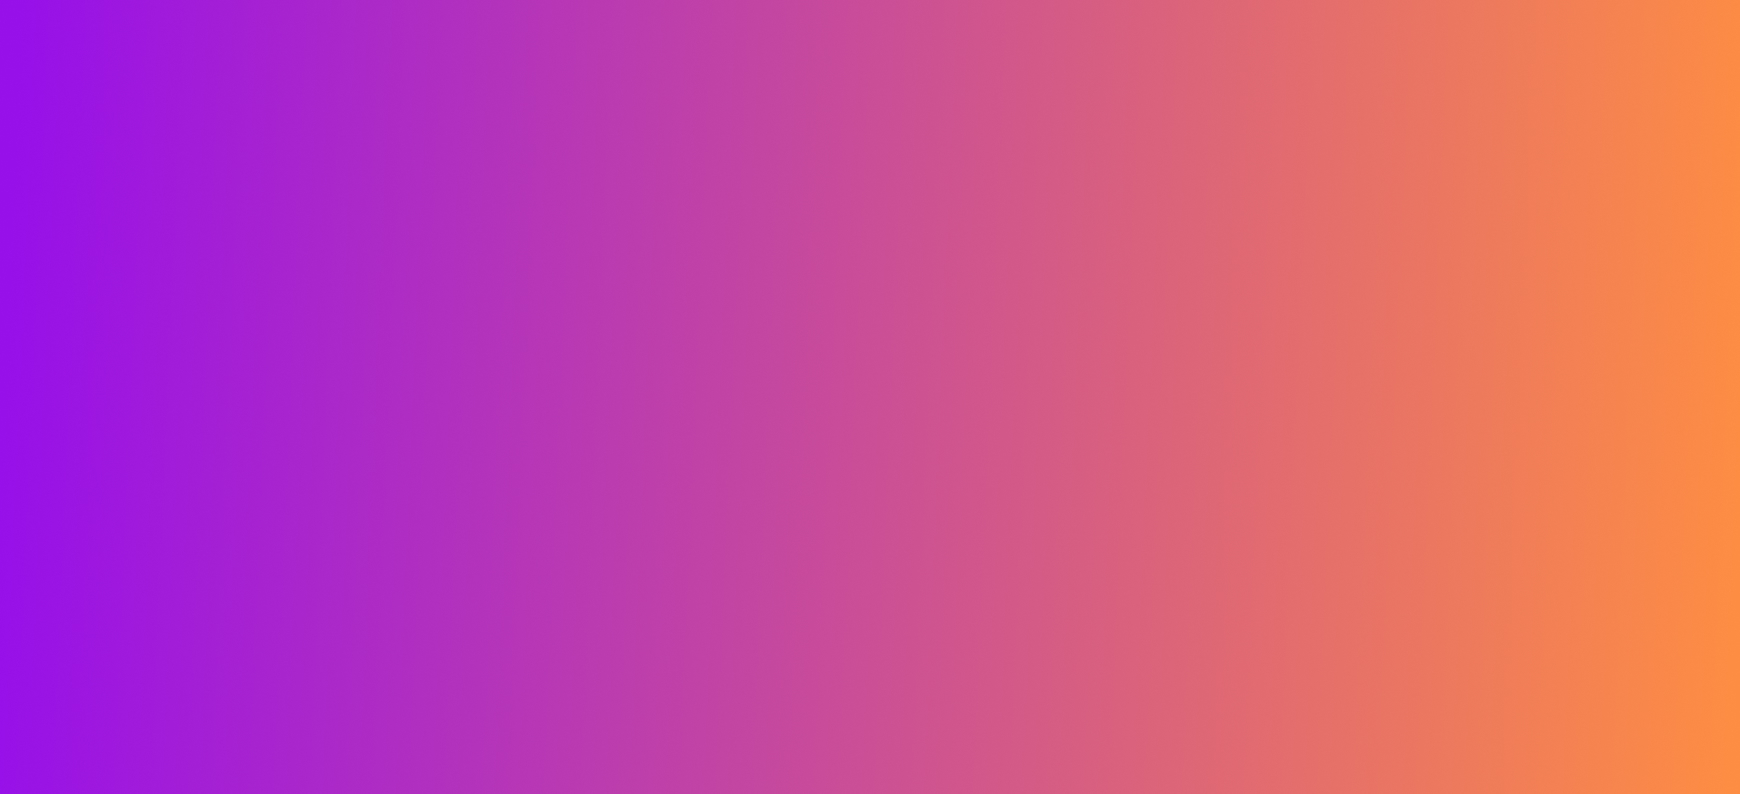
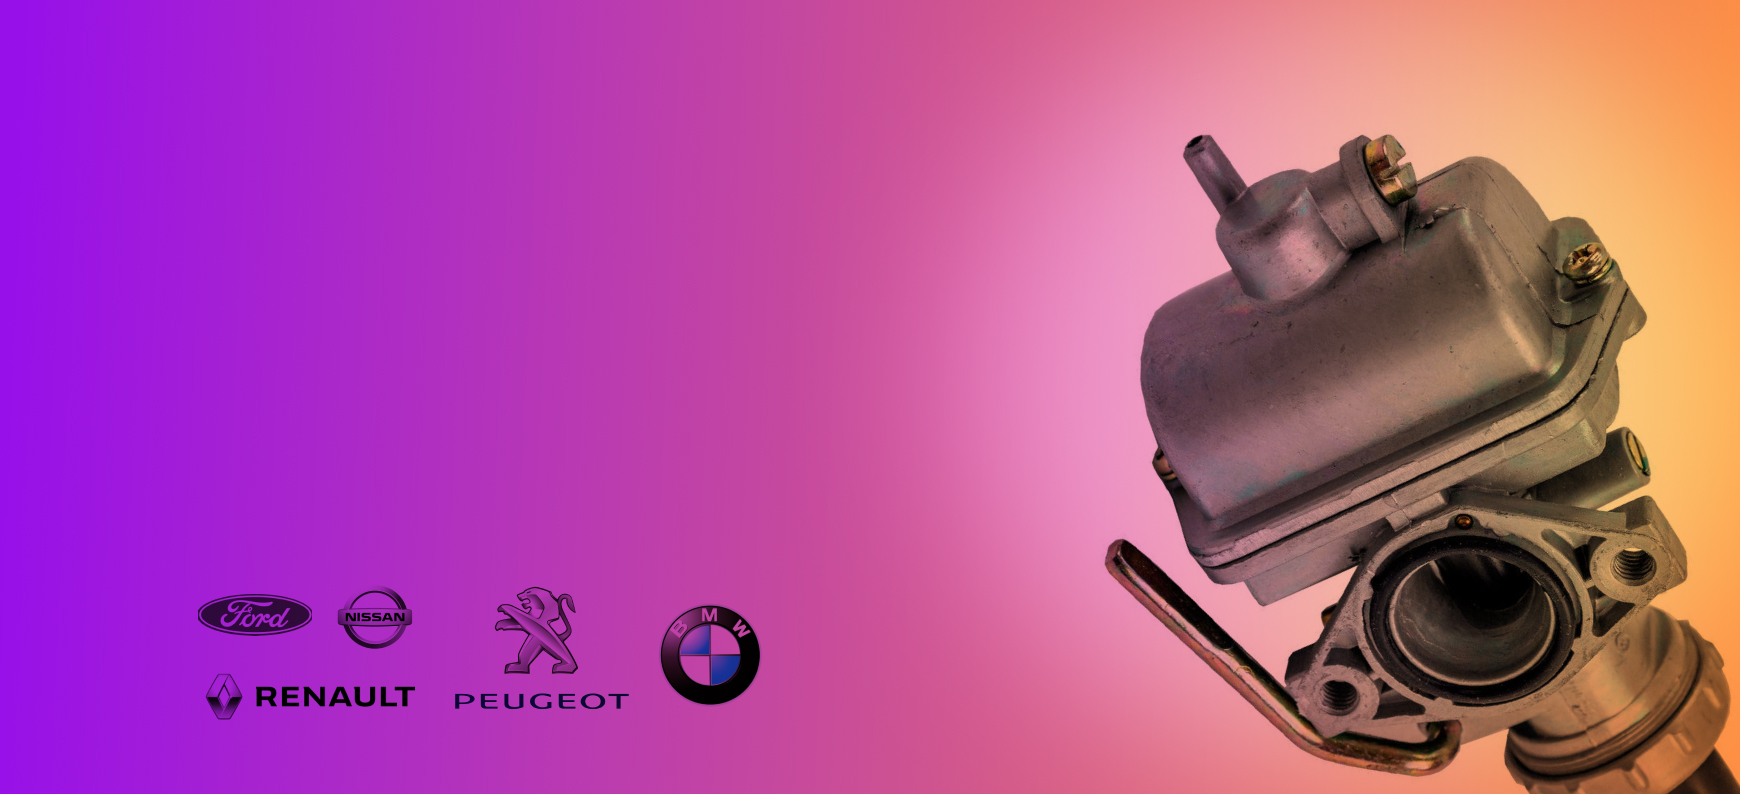
Добавлена разметка слайдера

diff --git a/source/html/_hero-slider.html b/source/html/_hero-slider.html
@@ -8,43 +8,87 @@
               src="img/index/s1_carbo@1x.jpg"
               alt="Реклама. Запчасти на все виды автомобилей"
               class="slider__img"
-					/>
-					 <div class="slider__text-container">
-						 <b class="slider__title">Запчасти <span></br>на все виды автомобилей</span></b>
-						</div>
-					</a>
+            />
+            <div class="slider__text-container">
+              <b class="slider__title">Запчасти</b>
+              <b class="slider__subtitle"
+                >на все виды автомобилей по цене производителя</b
+              >
+            </div>
+          </a>
         </li>
       </ul>
-		 
-			<div class="slider-pagination-container">
- 						<ul class="slider-pagination">
-          <li class="slider-pagination__item slide-pagination__item--active"><a href="#" class="slider-pagination__link"></a>
-          </li>
-          <li class="slider-pagination__item"><a href="#" class="slider-pagination__link"></a></li>
-          <li class="slider-pagination__item"><a href="#" class="slider-pagination__link"></a></li>
-          <li class="slider-pagination__item"><a href="#" class="slider-pagination__link"></a></li>
-					<li class="slider-pagination__item"><a href="#" class="slider-pagination__link"></a></li>
-        </ul>
-			</div>
-			  
 
-      <!-- <button
-          class="slider__button slider__control-forward back-forward-btn"
-          type="button"
-          aria-label="Вперед"
-        >
-          Вперед
-				</button>
-				
-        <button
-          class="slider__button slider__control-back back-forward-btn"
-          type="button"
-          aria-label="Назад"
-        >
-          Назад
-        </button>
-      </li> -->
+      <ul class="slider-pagination">
+        <li class="slider-pagination__item slide-pagination__item--active">
+          <a href="#" class="slider-pagination__link"></a>
+        </li>
+        <li class="slider-pagination__item">
+          <a href="#" class="slider-pagination__link"></a>
+        </li>
+        <li class="slider-pagination__item">
+          <a href="#" class="slider-pagination__link"></a>
+        </li>
+        <li class="slider-pagination__item">
+          <a href="#" class="slider-pagination__link"></a>
+        </li>
+        <li class="slider-pagination__item">
+          <a href="#" class="slider-pagination__link"></a>
+        </li>
+      </ul>
+
+      <button
+        class="slider__button slider__control-forward back-forward-btn"
+        type="button"
+        aria-label="Вперед"
+      ></button>
+      <button
+        class="slider__button slider__control-back back-forward-btn"
+        type="button"
+        aria-label=""
+      ></button>
     </div>
-    <div class="super-offer">12</div>
+    <article class="super-offer">
+      <div class="offer-comprasion">
+        <p class="offer-comprasion__new-price">200 ₽</p>
+        <b class="offer-comprasion__old-price">500 ₽</b>
+      </div>
+
+      <div class="offer-demonstration">
+        <picture class="offer-demonstration__img">
+          <source
+            type="image/webp"
+            srcset="img/index/lamp@1x.webp 1x, img/index/lamp@2x.webp 2x"
+          />
+          <!-- 1х: 232px; 2x: 464px -->
+          <img
+            src="img/index/lamp@1x.jpg"
+            srcset="img/index/lamp@2x.jpg 2x"
+            width="150"
+            height="187"
+            alt="Лампа накаливания"
+          />
+        </picture>
+        <b class="offer-demonstration__title"> Лампочка mini...</b>
+      </div>
+
+      <div class="offer-action">
+        <p class="offer-action__count-down-title">До конца акции осталось</p>
+
+        <table class="offer-action__countdown">
+          <tr class="offer-action__countdown-tr">
+            <td class="offer-action__hours-digits">00</td>
+            <td class="offer-action__mins-digits">20</td>
+            <td class="offer-action__seconds-digits">19</td>
+          </tr>
+
+          <tr class="offer-action__countdown-tr">
+            <td class="offer-action__hours-text">часов</td>
+            <td class="offer-action__mins-text">минут</td>
+            <td class="offer-action__seconds-text">чекунд</td>
+          </tr>
+        </table>
+      </div>
+    </article>
   </div>
 </section>

diff --git a/source/sass/blocks/index/hero-slider.scss b/source/sass/blocks/index/hero-slider.scss
@@ -1,3 +1,4 @@
+// ! Slider
 .top-promo-container {
   margin: 0px 0px 0px 0px;
   padding: 0px 0px 0px 0px;
@@ -26,12 +27,6 @@
     list-style: none;
   }
 
-  &__item {
-  }
-
-  &__link {
-  }
-
   &__img {
     margin: 0px 0px 0px 0px;
     padding: 0px 0px 0px 0px;
@@ -39,29 +34,28 @@
 
   &__text-container {
     position: absolute;
-    top: 155px;
+    width: 330px;
+    top: 100px;
     left: 100px;
   }
 
   &__title {
     color: white;
     font-size: 64px;
+    line-height: 64px;
     text-transform: uppercase;
-    line-height: 12px;
-
-    span {
-      margin: 0px 0px 0px 0px;
-      padding: 0px 0px 0px 0px;
-      font-weight: normal;
-      text-transform: none;
-      font-size: 24px;
-    }
   }
-}
 
-.super-offer {
-  width: 270px;
-  background-color: $grey25;
+  &__subtitle {
+    margin: 0px 0px 0px 0px;
+    padding: 0px 0px 0px 0px;
+    color: white;
+    font-weight: normal;
+    text-transform: none;
+    font-size: 20 px;
+    opacity: 0.64;
+    line-height: 10px;
+  }
 }
 
 .slider-pagination {
@@ -71,13 +65,15 @@
   display: flex;
 
   height: 24px;
-  background-color: rgba($grey100, 0.3);
+  background-color: rgba($grey100, $controlOpacityBg);
   border-radius: 100px;
   position: absolute;
   left: 50%;
   margin-left: -50px;
 
   bottom: 24px;
+  padding-right: 6px;
+  padding-left: 6px;
 
   &__item {
     padding-left: 4px;
@@ -91,11 +87,39 @@
       width: 8px;
       height: 8px;
       border: 1px solid white;
+      margin: 7px 0 8px;
       border-radius: 100px;
     }
   }
 }
-.slide-pagination {
-  &__item--active {
-  }
+
+.slide-pagination__item--active .slider-pagination__link::before {
+  background-color: white;
+}
+
+.slider__button {
+  display: block;
+  position: absolute;
+  top: 0px;
+  right: 0px;
+}
+
+.slider__control-back {
+  display: block;
+  position: absolute;
+  top: 0px;
+  left: 0px;
+  transform: rotate(-180deg);
+}
+
+.slider__control-forward {
+  top: 0px;
+  right: 0px;
+}
+// ! Slider ended
+
+// ! Goods of the day
+.super-offer {
+  width: 270px;
+  background-color: $grey25;
 }

diff --git a/source/sass/_global.scss b/source/sass/_global.scss
@@ -4,3 +4,44 @@
 
   @include fontBody;
 }
+
+a:hover,
+input:hover,
+button:hover {
+  cursor: pointer;
+}
+
+// ! Back-forward btn slider
+// ! Position added in specific files for each slider
+.back-forward-btn {
+  border: 0px;
+  height: 100%;
+  background: none;
+  width: 64px;
+
+  &:after {
+    content: "";
+    background-color: rgba($grey100, $controlOpacityBg);
+    background-image: url("/img/global/arrow-right.svg");
+    background-repeat: no-repeat;
+    background-position: center;
+    width: 40px;
+    height: 40px;
+    border-radius: 100px;
+
+    position: absolute;
+    left: 50%;
+    margin-left: -20px;
+
+    top: 50%;
+    margin-top: -20px;
+  }
+
+  &:hover {
+    background-color: rgba($grey100, $controlOpacityBg);
+  }
+
+  &:hover::after {
+    background-color: rgba($grey100, $controlOpacityControlOnBg);
+  }
+}

diff --git a/source/index.html b/source/index.html
@@ -15,6 +15,8 @@
 	<main class="index-main">
 		@@include('html/_hero-slider.html')
 
+
+
 			<!-- 		@@include('html/_search-form.html')
 		@@include('html/_department-links.html')
 		@@include('html/_popular-goods.html')

diff --git a/gulpfile.js b/gulpfile.js
@@ -130,7 +130,7 @@ function imgGo() {
   return src(path.source.img)
     .pipe(
       webpConvert({
-        quality: 70,
+        quality: 85,
       })
     )
     .pipe(dest(path.build.img))

diff --git a/source/sass/_variable.scss b/source/sass/_variable.scss
@@ -23,3 +23,7 @@ $grey25: #cdcdcd;
 $grey0: #f0f0f4;
 
 $orangeB: #ff7931;
+
+$controlOpacityFullOVerlay: 0.64;
+$controlOpacityBg: 0.16;
+$controlOpacityControlOnBg: 0.4;

diff --git a/source/sass/blocks/index/top-menu.scss b/source/sass/blocks/index/top-menu.scss
@@ -118,4 +118,8 @@
       background-color: $orangeB;
     }
   }
+
+  & &__item--active {
+    font-weight: bold;
+  }
 }
